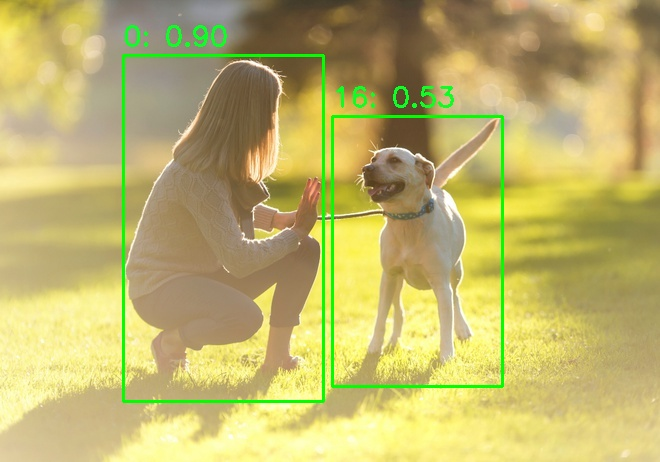
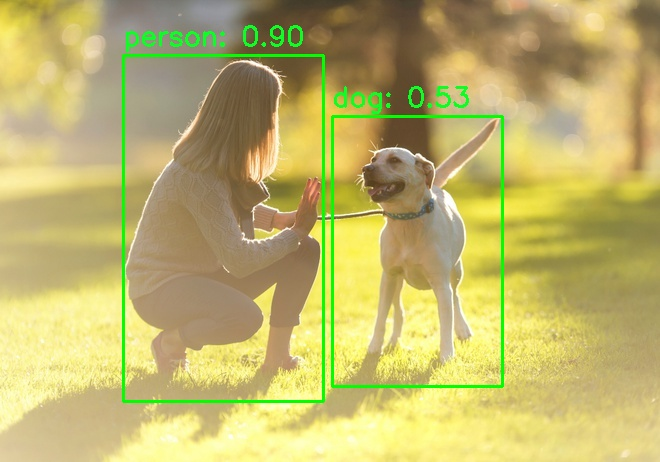
added config yaml

Changed region(s): [[0.1818, 0.0303, 0.4848, 0.1212], [0.4848, 0.1818, 0.7273, 0.2424]]

diff --git a/dev.py b/dev.py
@@ -11,11 +11,11 @@ def draw_boxes_on_image(image_path: str, output_path: str, url: str):
     for box, score, label in zip(detections['boxes'][0], detections['scores'][0], detections['labels'][0]):
         x1, y1, x2, y2 = box
         cv2.rectangle(image, (int(x1), int(y1)), (int(x2), int(y2)), (0, 255, 0), 2)
-        cv2.putText(image, f'{int(float(label))}: {score:.2f}', (int(x1), int(y1) - 10), cv2.FONT_HERSHEY_SIMPLEX, 0.9, (36,255,12), 2)
+        cv2.putText(image, f'{label}: {score:.2f}', (int(x1), int(y1) - 10), cv2.FONT_HERSHEY_SIMPLEX, 0.9, (36, 255, 12), 2)
 
 
     # Save the image
     cv2.imwrite(output_path, image)
 
 # Use the function
-draw_boxes_on_image("human-dog.jpg", "humang-dog-boxes.jpg", "http://0.0.0.0:5543/predict/from_files")
+draw_boxes_on_image("human-dog.jpg", "human-dog-boxes.jpg", "http://0.0.0.0:5543/predict/from_files")

diff --git a/Intro.md b/Intro.md
@@ -21,15 +21,26 @@ Image detection is a common task from Computer Vision that focuses on finding an
 
 For this task, we'll use a sparse YOLOv8, which is a state-of-the-art model for the image detection task.
 
-**Step 1** From your Droplet's terminal, initialize the DeepSparse Server with the YOLOv8 model:
 
-```bash
-deepsparse.server \
-  --task yolov8 \
-  --model_path zoo:cv/detection/yolov8-s/pytorch/ultralytics/coco/pruned50_quant-none
+**Step 1** From your Droplet's terminal, create a yaml file called `config.yaml` to configure the server. This file will select the YOLOv8 model and the labels the model expects to classify objects in images:
+
+```yaml
+endpoints:
+  - task: yolov8
+    model: zoo:cv/detection/yolov8-s/pytorch/ultralytics/coco/pruned50_quant-none
+    kwargs:
+      class_names:
+        '0': person
+        '16': dog
 ```
 
-**Step 2** From your local machine's terminal, download the image `human-dog.jpg` into your working directory:
+**Step 2** Initialize the DeepSparse Server with the config file:
+
+```bash
+deepsparse.server --config-file config.yaml
+```
+
+**Step 3** From your local machine's terminal, download the image `human-dog.jpg` into your working directory:
 
 ```bash
 wget -O human-dog.jpg <PATH TO ADD AFTER PR>
@@ -37,7 +48,7 @@ wget -O human-dog.jpg <PATH TO ADD AFTER PR>
 
 ![](./human-dog.jpg)
 
-**Step 3** On your local machine, use the Python `requests` library to make an API request to receive YOLOv8's inference on what it "sees" in the picture and then use the `opencv-python` library to draw objects in our image to know which objects it identified:
+**Step 4** On your local machine, use the Python `requests` library to make an API request to receive YOLOv8's inference on what it "sees" in the picture and then use the `opencv-python` library to draw objects in our image to know which objects it identified:
 
 ```python
 import requests
@@ -53,14 +64,17 @@ def draw_boxes_on_image(image_path: str, output_path: str, url: str):
     for box, score, label in zip(detections['boxes'][0], detections['scores'][0], detections['labels'][0]):
         x1, y1, x2, y2 = box
         cv2.rectangle(image, (int(x1), int(y1)), (int(x2), int(y2)), (0, 255, 0), 2)
-        cv2.putText(image, f'{int(float(label))}: {score:.2f}', (int(x1), int(y1) - 10), cv2.FONT_HERSHEY_SIMPLEX, 0.9, (36,255,12), 2)
+        cv2.putText(image, f'{label}: {score:.2f}', (int(x1), int(y1) - 10), cv2.FONT_HERSHEY_SIMPLEX, 0.9, (36, 255, 12), 2)
 
 
     # Save the image
     cv2.imwrite(output_path, image)
+
+# Use the function
+draw_boxes_on_image("human-dog.jpg", "human-dog-boxes.jpg", "http://0.0.0.0:5543/predict/from_files")
 ```
 
-**Step 4** Call the function and pass in the image path, boxes-image path and the Server's url:
+**Step 5** Call the function and pass in the image path, boxes-image path and the Server's url:
 
 ```
 draw_boxes_on_image("human-dog.jpg", "human-dog-boxes.jpg", "http://0.0.0.0:5543/predict/from_files")
